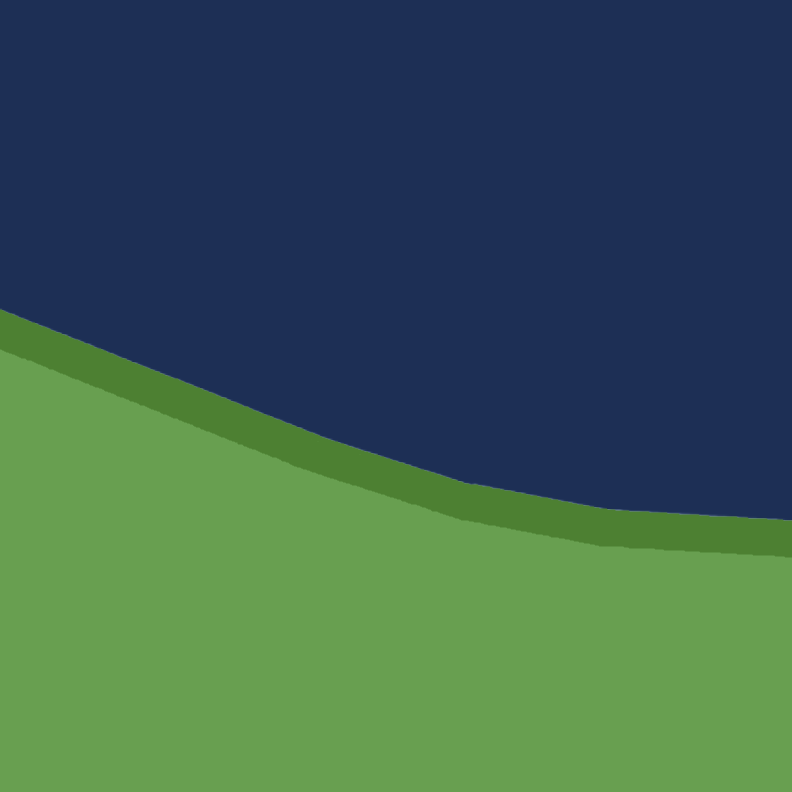
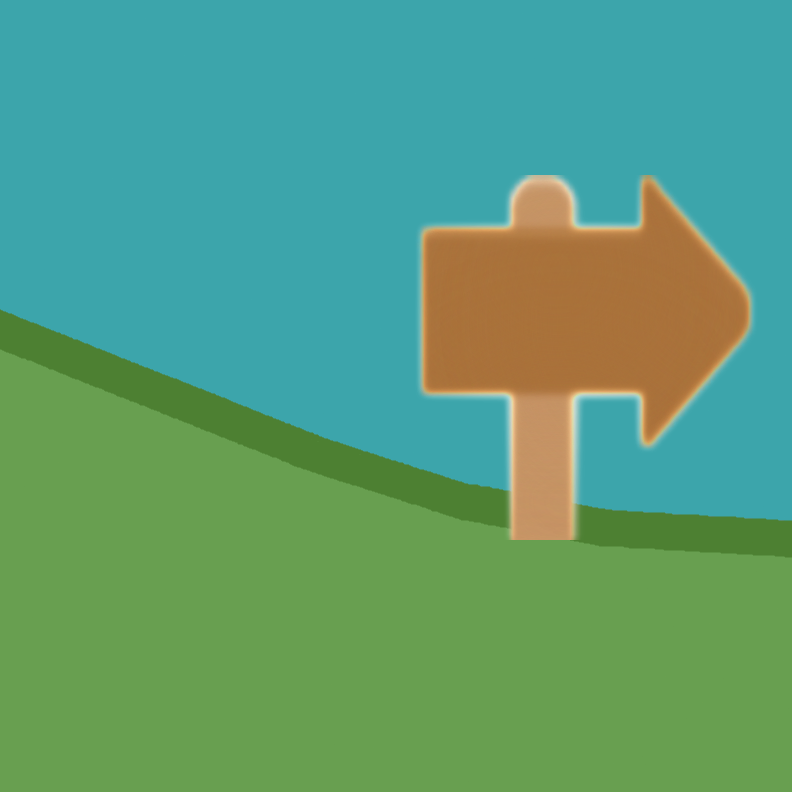
add: all themes and their background and a lot of fix

diff --git a/frontend/src/Components/Pages/ShopPage.js b/frontend/src/Components/Pages/ShopPage.js
@@ -3,6 +3,7 @@ import anime from 'animejs/lib/anime.es';
 import Navigate from '../Router/Navigate';
 import BackGround from '../../utils/background';
 
+// skins images
 import noImageAvailable from '../../assets/noimageavailable.png';
 import santaImage from '../../assets/skins/santaSkin.png';
 import redhatImage from '../../assets/skins/redhatSkin.png';
@@ -15,8 +16,13 @@ import ninjaboyImage from '../../assets/skins/ninjaboySkin.png';
 import ninjagirlImage from '../../assets/skins/ninjagirlSkin.png';
 import robotImage from '../../assets/skins/robotSkin.png';
 
+// themes images
 import snowImage from '../../assets/themes/snow/snowTheme.png';
 import meadowImage from '../../assets/themes/meadow/meadowTheme.png';
+import desertImage from '../../assets/themes/desert/desertTheme.png';
+import mushroomImage from '../../assets/themes/mushroom/mushroomTheme.png';
+import candyImage from '../../assets/themes/candy/candyTheme.png';
+import alienImage from '../../assets/themes/alien/alienTheme.png';
 
 // configure skin with his image
 const SKINS_IMAGE = {
@@ -37,6 +43,10 @@ const SKINS_IMAGE = {
 const THEMES_IMAGE = {
     snow: snowImage,
     meadow: meadowImage,
+    desert: desertImage,
+    mushroom: mushroomImage,
+    candy: candyImage,
+    alien: alienImage,
     default: noImageAvailable
 };
 

diff --git a/frontend/src/Components/Game/GameScene.js b/frontend/src/Components/Game/GameScene.js
@@ -25,7 +25,7 @@ const gameOptions = {
   slopeLength: [300, 800], 
   slicesAmount: 3,
   slopesPerSlice: 5,
-  obstacleRatio: 15,
+  obstacleRatio: 12,
   coinRatio: 20,
   amountCoin: 10 
 };
@@ -510,6 +510,7 @@ class GameScene extends Phaser.Scene {
     const coin = this.matter.add.image(coinX + 20, coinY - 55, COIN_KEY, null);
     coin.setCircle();
     coin.setStatic(true);
+    coin.body.isSensor = true;
     coin.body.label = COIN_KEY;
     this.coins.push(coin);
   }

diff --git a/frontend/src/stylesheets/main.css b/frontend/src/stylesheets/main.css
@@ -81,8 +81,6 @@ body{
 .shop-picture {
     border-top-right-radius: 5px;
     border-top-left-radius: 5px;
-    border: 2px solid rgb(218,217,214);
-    border-bottom: none;
 }
 
 .shop-part {

diff --git a/frontend/src/Components/Pages/GamePage.js b/frontend/src/Components/Pages/GamePage.js
@@ -29,7 +29,7 @@ const phaserGame = `
     physics: {
       default: 'matter',
       matter: {
-        debug: true,
+        debug: false,
         gravity: {
           y: 1
       },
